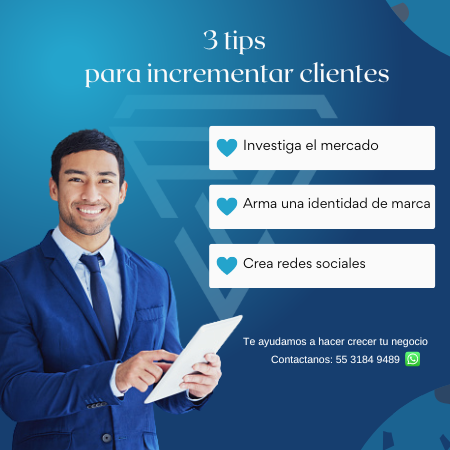
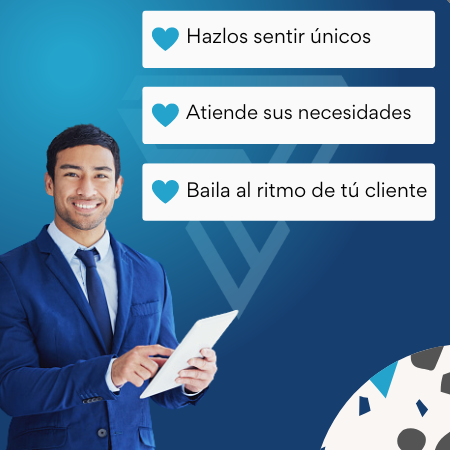
Se agregan imagenes al carrucel de asesores

diff --git a/src/app/components/ejecutivos/ejecutivos.component.html b/src/app/components/ejecutivos/ejecutivos.component.html
@@ -1,7 +1,7 @@
 <ngb-carousel >
     <ng-template ngbSlide>
       <div class="picsum-img-wrapper">
-        <img [src]="mobileQuery.matches ? '../../../assets/images/banner_asesor/movil/1.png' : '../../../assets/images/banner_distribuidor/desk/1.png'" alt="Random first slide"  >
+        <img [src]="mobileQuery.matches ? '../../../assets/images/banner_asesor/movil/1.png' : '../../../assets/images/banner_asesor/desk/1.png'" alt="Random first slide"  >
       </div>
       <!--<div class="carousel-caption">
         <h3>10 seconds between slides...</h3>
@@ -10,7 +10,7 @@
     </ng-template>
     <ng-template ngbSlide>
       <div class="picsum-img-wrapper">
-        <img [src]="mobileQuery.matches ? '../../../assets/images/banner_asesor/movil/2.png' : '../../../assets/images/banner_distribuidor/desk/2.png'" alt="Random first slide"  >
+        <img [src]="mobileQuery.matches ? '../../../assets/images/banner_asesor/movil/2.png' : '../../../assets/images/banner_asesor/desk/2.png'" alt="Random first slide"  >
       </div>
       <!--<div class="carousel-caption">
         <h3>No mouse events...</h3>
@@ -19,7 +19,7 @@
     </ng-template>
     <ng-template ngbSlide>
       <div class="picsum-img-wrapper">
-        <img [src]="mobileQuery.matches ? '../../../assets/images/banner_asesor/movil/3.png' : '../../../assets/images/banner_distribuidor/desk/3.png'" alt="Random first slide"  >
+        <img [src]="mobileQuery.matches ? '../../../assets/images/banner_asesor/movil/3.png' : '../../../assets/images/banner_asesor/desk/3.png'" alt="Random first slide"  >
       </div>
       <!--<div class="carousel-caption">
         <h3>No keyboard...</h3>
